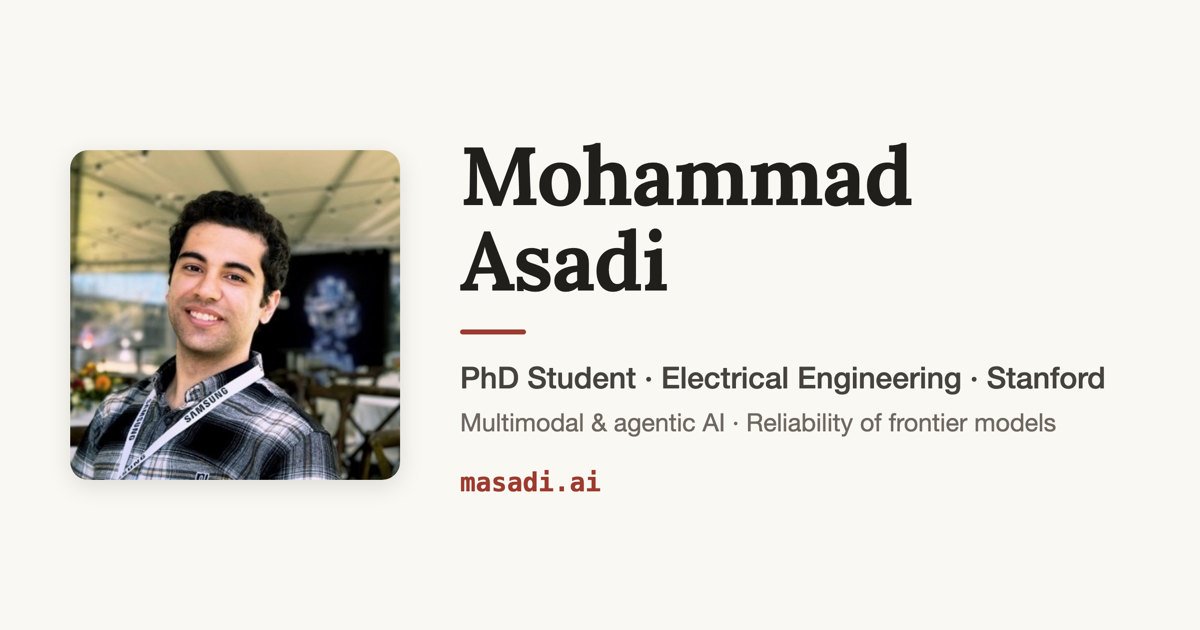
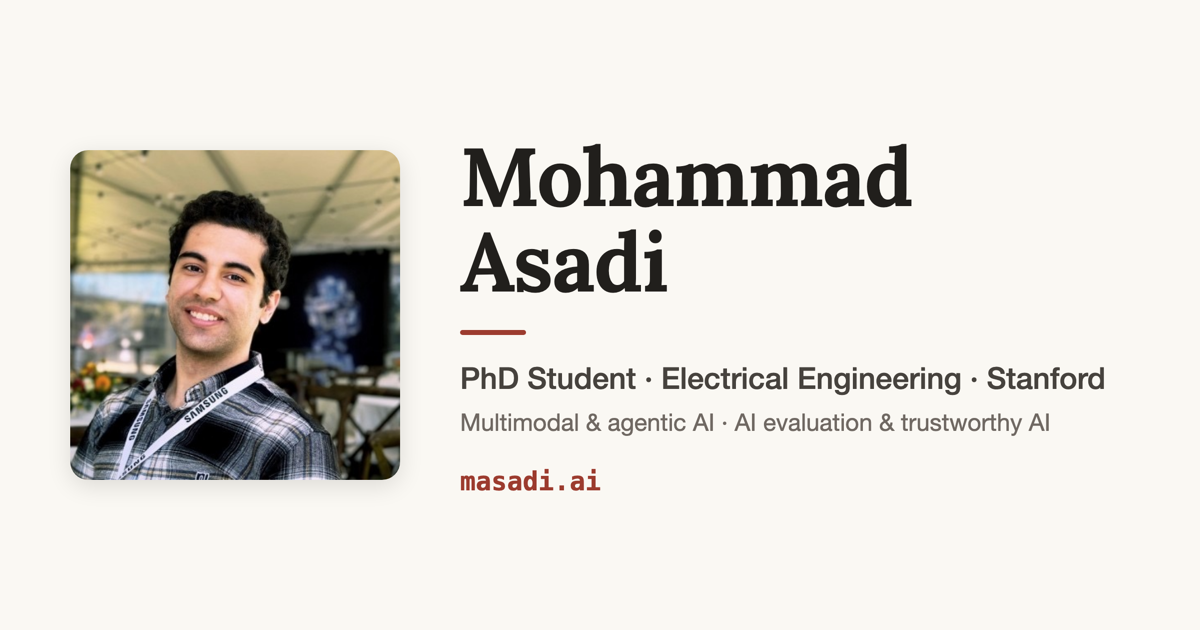
Replace invented 'frontier-model reliability' with field-standard terms
Research (verbatim from top researchers' sites + lab job boards) showed the
coined phrase isn't a term of art and "reliability" reads as SRE at labs.
Adopt 'AI Evaluation & Trustworthy AI' (Liang/HELM, Koyejo, Bo Li, Hashimoto;
literal eval team/title word at Anthropic/OpenAI/DeepMind) across headline,
bios, JSON-LD knowsAbout/description, llms.txt, keywords, and the OG card.
Prose second thread: "develop evaluations that expose where frontier
multimodal models fail." No safety/alignment overclaim.

diff --git a/_pages/about.md b/_pages/about.md
@@ -3,7 +3,7 @@ layout: about
 title: About
 seo_title: Mohammad Asadi | Stanford EE PhD Student | Multimodal & Agentic AI
 permalink: /
-description: Mohammad Asadi is a PhD student in Electrical Engineering at Stanford University, working on multimodal and agentic AI and the reliability of frontier AI models.
+description: Mohammad Asadi is a PhD student in Electrical Engineering at Stanford University, working on multimodal and agentic AI, AI evaluation, and trustworthy AI.
 last_modified_at: 2026-06-14
 subtitle: PhD student, Electrical Engineering · <a href="https://www.stanford.edu/">Stanford University</a> · <a href="https://ashleylab.stanford.edu/">Ashley Lab</a> · <a href="https://stai.stanford.edu/">STAI Lab</a>
 
@@ -27,6 +27,6 @@ latest_posts:
   enabled: false
 ---
 
-I'm a PhD student in Electrical Engineering at Stanford, advised by Prof. Euan Ashley and co-advised by Prof. Fei-Fei Li and Prof. Ehsan Adeli. My research has two complementary threads: I develop multimodal, agentic AI systems that reason jointly over heterogeneous data, and I study the reliability and failure modes of frontier multimodal models. My current work applies these methods in medicine. I'm most interested in where these models break: a confident answer is not evidence that a model actually understood its input.
+I'm a PhD student in Electrical Engineering at Stanford, advised by Prof. Euan Ashley and co-advised by Prof. Fei-Fei Li and Prof. Ehsan Adeli. My research has two complementary threads: I build multimodal, agentic AI systems that reason jointly over heterogeneous data, and I develop evaluations that expose where frontier multimodal models fail. My current work applies these methods in medicine. I'm most interested in where these models break: a confident answer is not evidence that a model actually understood its input.
 
 Before Stanford, I worked on human-motion generation at Samsung and on interpretable machine learning for education at EPFL, and I did my BSc in Electrical Engineering at Sharif University of Technology.

diff --git a/_pages/publications.md b/_pages/publications.md
@@ -2,7 +2,7 @@
 layout: page
 permalink: /publications/
 title: Publications
-description: "Publications by Mohammad Asadi, PhD student in Electrical Engineering at Stanford University, spanning multimodal and agentic AI and the reliability of frontier models, including MIRAGE and MARCUS, with applications in medicine."
+description: "Publications by Mohammad Asadi, PhD student in Electrical Engineering at Stanford University, spanning multimodal and agentic AI, AI evaluation, and trustworthy AI, including MIRAGE and MARCUS, with applications in medicine."
 nav: true
 nav_order: 2
 last_modified_at: 2026-06-09
